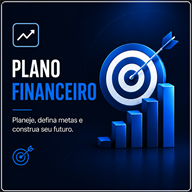
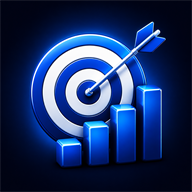
Add files via upload

diff --git a/sw.js b/sw.js
@@ -1,7 +1,7 @@
 // Compatibilidade: páginas antigas ainda podem solicitar sw.js.
 // A versão atual registra sw-financeiro.js no mesmo escopo e substitui esta.
 const FINANCE_CACHE_PREFIX = 'meu-financeiro-familiar-';
-const CACHE = `${FINANCE_CACHE_PREFIX}v532-nova-identidade-visual`;
+const CACHE = `${FINANCE_CACHE_PREFIX}v533-icone-legivel`;
 const APP_SCOPE_PATH = '/Gest-o-Financeira/';
 const ASSETS = ['./', './index.html', './styles.css', './managers.css', './ui-fixes.css', './family.css', './decision.css', './manifest.json', './manifest-financeiro.webmanifest', './app.js', './domain.js', './storage.js', './icone-financeiro-180.png', './icone-financeiro-192.png', './icone-financeiro-512.png'];
 self.addEventListener('install', event => event.waitUntil(caches.open(CACHE).then(cache => cache.addAll(ASSETS)).then(() => self.skipWaiting())));

diff --git a/sw-financeiro.js b/sw-financeiro.js
@@ -1,5 +1,5 @@
 const FINANCE_CACHE_PREFIX = 'meu-financeiro-familiar-';
-const CACHE = `${FINANCE_CACHE_PREFIX}v532-nova-identidade-visual`;
+const CACHE = `${FINANCE_CACHE_PREFIX}v533-icone-legivel`;
 const APP_SCOPE_PATH = '/Gest-o-Financeira/';
 const ASSETS = ['./', './index.html', './styles.css', './managers.css', './ui-fixes.css', './family.css', './decision.css', './manifest.json', './manifest-financeiro.webmanifest', './app.js', './domain.js', './storage.js', './icone-financeiro-180.png', './icone-financeiro-192.png', './icone-financeiro-512.png'];
 

diff --git a/index.html b/index.html
@@ -8,7 +8,7 @@
   <meta name="apple-mobile-web-app-capable" content="yes">
   <meta name="application-name" content="Meu Financeiro Familiar">
   <meta name="apple-mobile-web-app-title" content="Financeiro">
-  <link rel="manifest" href="manifest-financeiro.webmanifest?v=2">
+  <link rel="manifest" href="manifest-financeiro.webmanifest?v=3">
   <link rel="apple-touch-icon" href="icone-financeiro-180.png">
   <link rel="icon" type="image/png" sizes="192x192" href="icone-financeiro-192.png">
   <link rel="stylesheet" href="styles.css">
